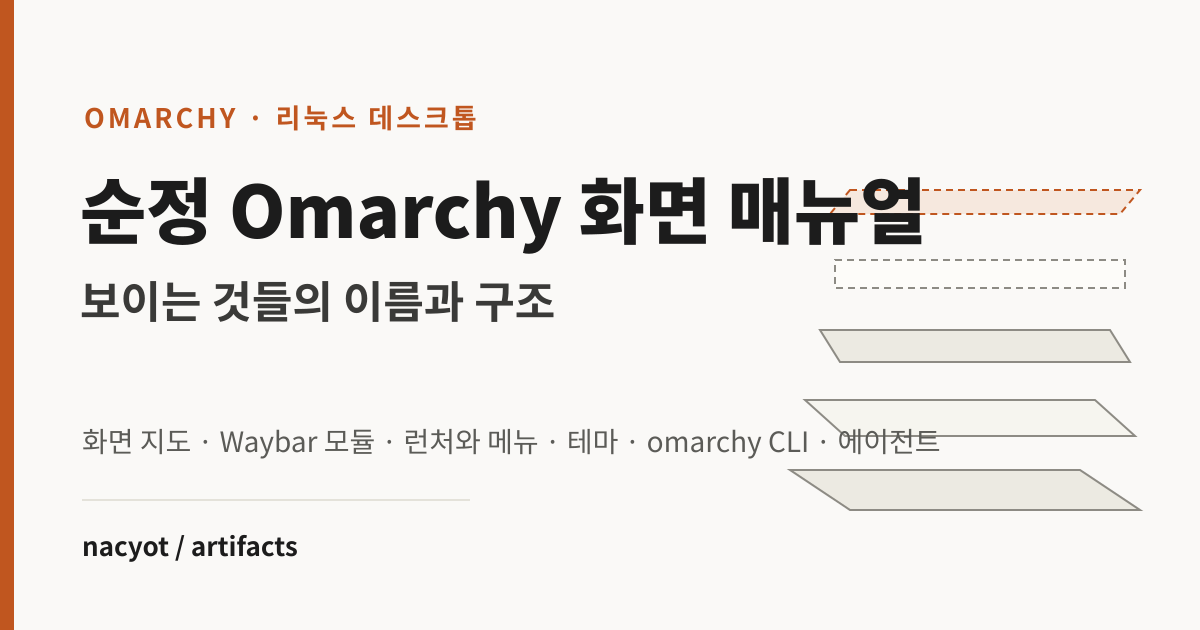
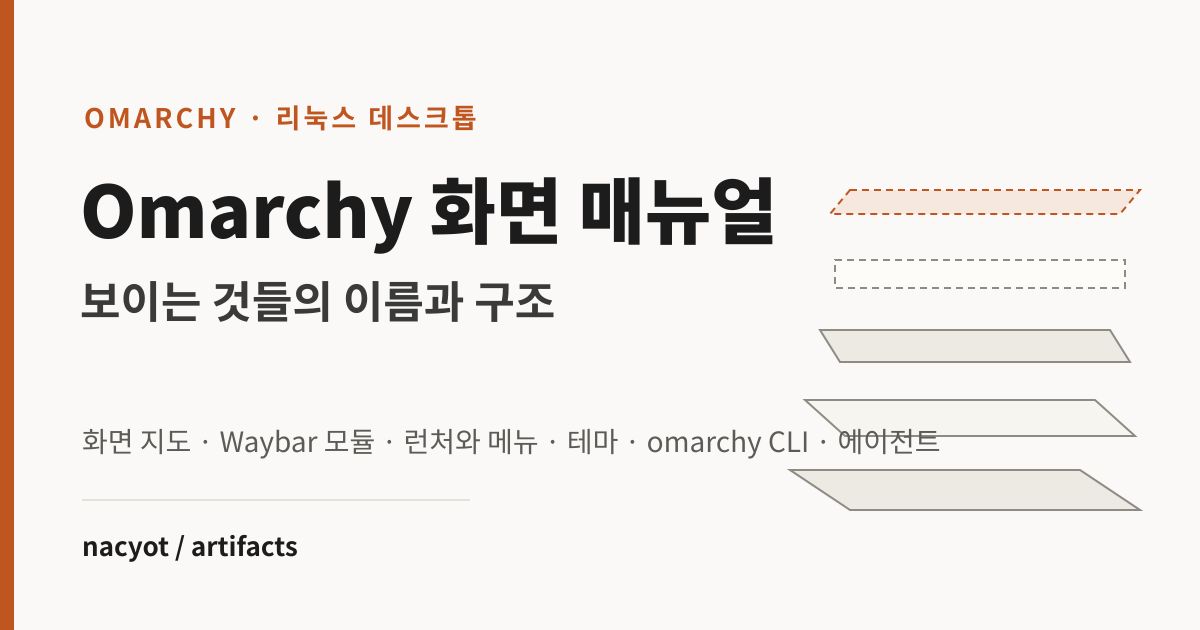
omarchy-vanilla-manual: '순정' 표현 제거 (제목·본문·og 이미지·랜딩·피드)

Changed region(s): [[0.0617, 0.2714, 0.7708, 0.4222]]

diff --git a/index.html b/index.html
@@ -57,7 +57,7 @@
 <p class="sub">공개해도 되는 작업 산출물 모음 — 실측 정리 · 리서치 · 시각화. 개인 식별 정보와 자격증명은 제거한 것만 올린다. 최신순.</p>
 
 <a class="item" href="./omarchy-vanilla-manual/">
-  <h2>순정 Omarchy 화면 매뉴얼: 보이는 것들의 이름과 구조</h2>
+  <h2>Omarchy 화면 매뉴얼: 보이는 것들의 이름과 구조</h2>
   <p>화면에 보이는 모든 것의 이름과 구조: 상단 바(Waybar)와 모듈, 런처(Walker)와 메뉴 체계, 알림(Mako), OSD, 테마, 워크스페이스와 스크래치패드, omarchy CLI, 설정이 흐르는 세 층. 클릭해 보는 화면 지도와 스크래치패드 시연을 담은 4.0 alpha 기준 정리. 코딩 에이전트로 고치는 법까지.</p>
   <div class="meta">
     <span class="tag">실측</span><span class="tag">시각화</span>